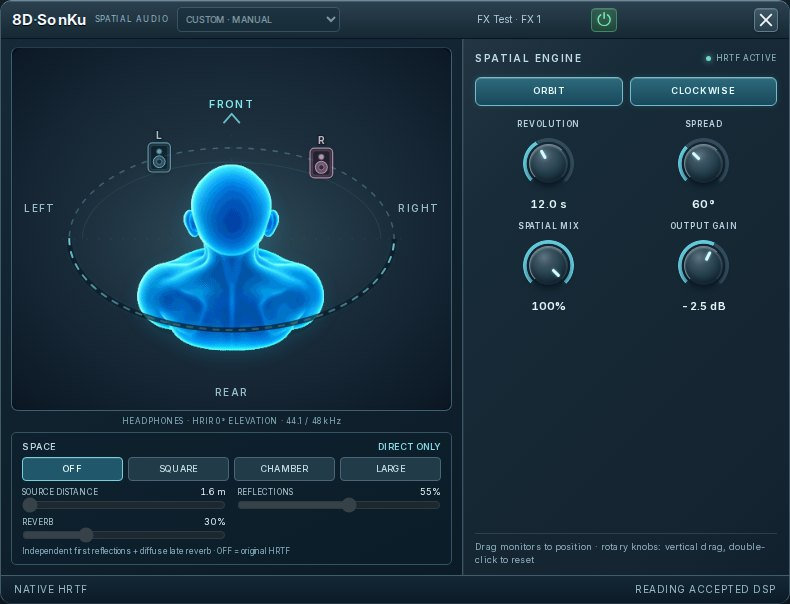
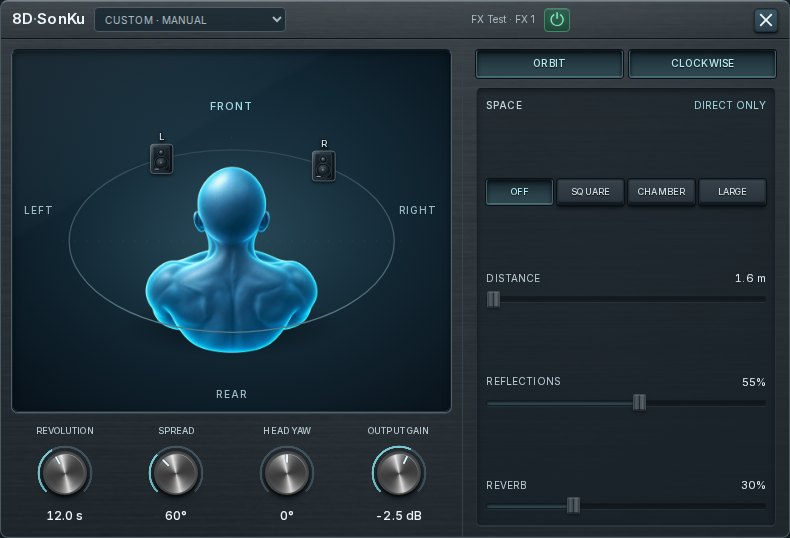
docs: refresh original 8D-SonKu alpha.33 screenshot and provenance

diff --git a/site/index.html b/site/index.html
@@ -128,7 +128,7 @@
       <div class="fx-layout">
         <div class="fx-visual">
           <a href="./effects/8d-sonku/" aria-label="Explore the 8D-SonKu original built-in FX editor">
-            <img src="./media/fx-editor-8d-sonku.jpg" width="790" height="604" loading="lazy" decoding="async" alt="8D-SonKu original spatial audio editor with headphone motion map and controls">
+            <img src="./media/fx-editor-8d-sonku.jpg" width="790" height="538" loading="lazy" decoding="async" alt="8D-SonKu original spatial audio editor with headphone motion map and controls">
           </a>
           <div class="fx-image-caption"><span>8D-SONKU / ORIGINAL EDITOR</span><span>Explore the effect ↗</span></div>
           <p class="fx-context">Browse a dedicated explanation for each built-in audio effect, then explore the full mixer workflow online. Audio processing happens in the Windows app.</p>
@@ -152,7 +152,7 @@
       </div>
       <div class="fx-gallery-grid" id="fx-gallery" aria-label="Built-in FX editor screenshots">
         <a class="fx-gallery-card fx-gallery-featured" href="./effects/8d-sonku/" target="_blank" rel="noopener" aria-label="View full 8D-SonKu editor screenshot">
-          <img src="./media/fx-editor-8d-sonku.jpg" width="790" height="604" loading="lazy" decoding="async" alt="8D-SonKu native WebView editor with binaural map and orbit controls">
+          <img src="./media/fx-editor-8d-sonku.jpg" width="790" height="538" loading="lazy" decoding="async" alt="8D-SonKu native WebView editor with binaural map and orbit controls">
           <span class="fx-gallery-caption"><strong>8D-SonKu</strong><small>SPATIAL / HEADPHONES</small></span>
         </a>
         <a class="fx-gallery-card fx-gallery-featured" href="./effects/vocal-delay/" target="_blank" rel="noopener" aria-label="View full Vocal Delay editor screenshot">

diff --git a/scripts/public_fx_pages.py b/scripts/public_fx_pages.py
@@ -14,7 +14,7 @@ FX_PAGES = (
          headline="Move sound around your headphones.",
          introduction="8D-SonKu is a built-in 8D audio plugin for positioning and moving sound around a headphone listening field. Its editor makes the direction and movement controls visible rather than hiding them inside a preset name.",
          details=("Explore the binaural map and orbit controls in the editor.", "Use headphones when evaluating spatial placement and movement.", "Adjust levels carefully; spatial effects do not replace routing and output setup."),
-         image="fx-editor-8d-sonku.jpg", width=790, height=604, origin="Approved native WebView resource rendered in Chromium; not a hardware test",
+         image="fx-editor-8d-sonku.jpg", width=790, height=538, origin="Approved native WebView resource rendered in Chromium; not a hardware test",
          related=("vocal-delay", "immersib")),
     dict(slug="vocal-delay", title="Vocal Delay", category="Voice / creative timing",
          seo="Vocal Delay Built-in Audio Effect | ArSonMix Mixer",

diff --git a/site/media/README.md b/site/media/README.md
@@ -36,6 +36,10 @@ from the native WebView2 resource bundle generated by
 - `fx-editor-compressor.jpg` — Compressor
 - `fx-editor-graphic-eq31.jpg` — Graphic EQ 31
 
+The 8D-SonKu image was refreshed from the published alpha.33 source
+(`213d2a4b861cd592c41c3ce6a4b318bf347b9e7b`); its own source commit,
+bundle SHA-256 and dimensions override the original gallery batch metadata.
+
 `fx-gallery-provenance.json` records the exact source commit, source GUI
 bundle SHA-256 and per-image catalog ID, checksum and capture method.
 The controlled browser bridge simulates **only** native state transport to
